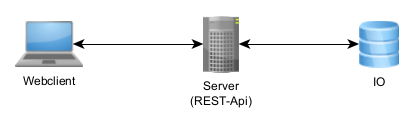
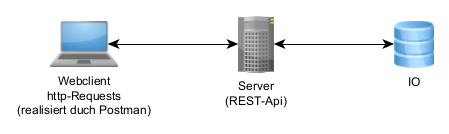
update README

Changed region(s): [[0.029, 0.12, 0.9855, 0.864], [0.8986, 0.576, 0.9565, 0.696]]

diff --git a/README.md b/README.md
@@ -6,10 +6,8 @@
  * Robin Wollenschläger
 
 ## Testscope
-https://restful-booker.herokuapp.com/apidoc/index.html
- * User <--> PC <--> System <--> DB
- * Scope <--> System <--> DB
-
+Wir testen die REST-Api des durch https://restful-booker.herokuapp.com/apidoc/index.html bereitgestellten Webservices. Dies beinhaltet keinerlei GUI und der Webclient zum Testen wird durch Postman realisiert.
+![Scope](./Scope.png "Scope")
 Wir haben uns darauf festgelegt, nur die Endpunkte zu testen, bei denen Daten im JSON-Format ausgetauscht werden. Die XML-Datenübertragung wird nicht getestet. 
 
 ## Testziele
